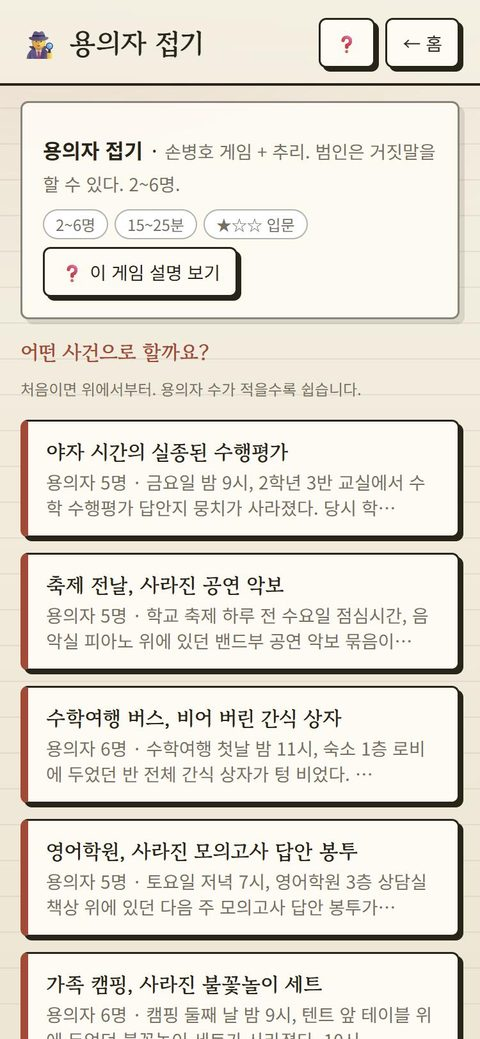
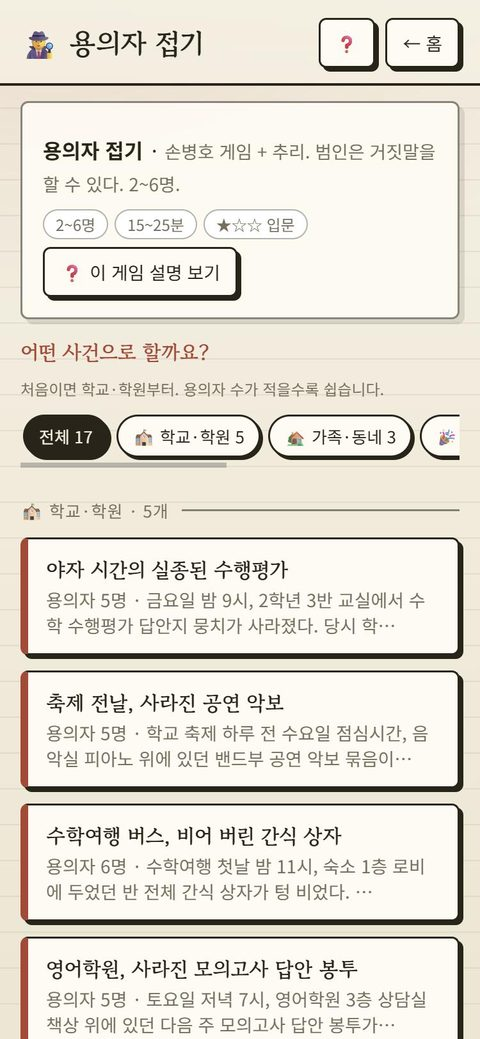
사건 선택 화면을 배경별로 묶고 필터 칩 추가
- 사건 데이터에 category 추가 (학교·학원 / 가족·동네 / 모임·행사 / 가게·시설 / 여행 / 온라인)
- app.js: CATEGORIES 순서대로 묶음 + 상단 필터 칩(선택은 do:caseFilter 에 기억), 자동 생성 사건은 별도 묶음
- check-cases: category·scene.spots 누락 경고
- 앱 소개 2단계 설명과 예시 화면(app-2) 갱신

Changed region(s): [[0.0312, 0.3696, 0.9688, 1.0]]

diff --git a/js/app.js b/js/app.js
@@ -2,6 +2,11 @@
 // 헤더의 ❓ 버튼은 현재 모드의 설명 시트(guide.js)를 띄운다. 게임 화면은 건드리지 않는다.
 (() => {
   const { h, render, modes, listCases, store } = DO;
+
+  // 사건 선택 화면의 배경별 묶음 순서. 사건 데이터의 category 문자열과 맞춘다. 쉬운 것(학교)이 먼저.
+  const CATEGORIES = [
+    ['학교·학원', '🏫'], ['가족·동네', '🏡'], ['모임·행사', '🎉'], ['가게·시설', '🏢'], ['여행', '✈'], ['온라인', '🎮'],
+  ];
   const root = document.getElementById('root');
   const homeBtn = document.getElementById('home');
   const helpBtn = document.getElementById('help');
@@ -84,18 +89,36 @@
     const cases = listCases();
     const gen = DO.generateCase; // daily.js 가 등록하면 존재
     const meta = DO.modeMeta ? DO.modeMeta(mode.id) : {};
-    render(root,
+    // 배경별 묶음. 사건의 category 가 목록에 없으면 "기타"로.
+    const groups = CATEGORIES.map(([name, emoji]) => ({ name, emoji, cases: cases.filter(c => c.category === name) }));
+    const known = new Set(CATEGORIES.map(([n]) => n));
+    const etc = cases.filter(c => !known.has(c.category));
+    if (etc.length) groups.push({ name: '기타', emoji: '📁', cases: etc });
+    const nonEmpty = groups.filter(g => g.cases.length);
+    let filter = store.get('caseFilter', null);
+    if (filter && !nonEmpty.some(g => g.name === filter)) filter = null;
+
+    const caseBtn = c => h('button', { class: 'mode', onClick: () => begin(mode, c) },
+      h('b', {}, c.title),
+      h('div', { class: 'muted' }, `용의자 ${c.suspects.length}명 · ${c.intro.slice(0, 48)}…`),
+    );
+    const draw = () => render(root,
       h('div', { class: 'card' },
         h('p', {}, h('b', {}, mode.name), ' · ', h('span', { class: 'muted' }, mode.desc)),
         badges(meta),
         h('button', { class: 'small', onClick: () => DO.openGuide && DO.openGuide(mode.id) }, '❓ 이 게임 설명 보기'),
       ),
       h('h3', {}, '어떤 사건으로 할까요?'),
-      h('p', { class: 'muted small-text' }, '처음이면 위에서부터. 용의자 수가 적을수록 쉽습니다.'),
-      cases.map(c => h('button', { class: 'mode', onClick: () => begin(mode, c) },
-        h('b', {}, c.title),
-        h('div', { class: 'muted' }, `용의자 ${c.suspects.length}명 · ${c.intro.slice(0, 48)}…`),
-      )),
+      h('p', { class: 'muted small-text' }, '처음이면 학교·학원부터. 용의자 수가 적을수록 쉽습니다.'),
+      h('div', { class: 'chips' },
+        h('button', { class: 'chip' + (filter ? '' : ' active'), onClick: () => { filter = null; store.set('caseFilter', null); draw(); } }, `전체 ${cases.length}`),
+        nonEmpty.map(g => h('button', { class: 'chip' + (filter === g.name ? ' active' : ''), onClick: () => { filter = g.name; store.set('caseFilter', g.name); draw(); } }, `${g.emoji} ${g.name} ${g.cases.length}`)),
+      ),
+      nonEmpty.filter(g => !filter || g.name === filter).map(g => [
+        h('div', { class: 'section-title' }, `${g.emoji} ${g.name} · ${g.cases.length}개`),
+        g.cases.map(caseBtn),
+      ]),
+      gen ? h('div', { class: 'section-title' }, '🤖 자동 생성') : null,
       gen ? h('button', { class: 'mode', onClick: () => begin(mode, gen(DO.todaySeed())) },
         h('b', {}, '📅 오늘의 사건'),
         h('div', { class: 'muted' }, '매일 바뀌는 자동 생성 사건. 오늘은 모두 같은 사건.'),
@@ -105,6 +128,7 @@
         h('div', { class: 'muted' }, '매번 새로 만드는 사건.'),
       ) : null,
     );
+    draw();
   }
 
   function begin(mode, c) {

diff --git a/js/guide.js b/js/guide.js
@@ -170,7 +170,7 @@
       h('h3', {}, '공통 흐름'),
       [
         ['모드 고르기', '홈에서 하고 싶은 방식을 고른다. 처음이면 용의자 접기.'],
-        ['사건 고르기', '수록된 사건이나 오늘의 사건을 고른다. 어느 모드든 같은 사건을 쓸 수 있다.'],
+        ['사건 고르기', '배경별(학교·학원, 가족·동네, 여행 …)로 묶인 사건이나 오늘의 사건을 고른다. 위쪽 칩을 누르면 그 배경만 보인다. 어느 모드든 같은 사건을 쓸 수 있다.'],
         ['이름 입력', '함께할 사람 이름을 넣는다. 지난번 이름은 기억되어 있다.'],
         ['폰 돌리기', '"OO님에게 폰을 넘기세요" 화면이 나오면 그 사람만 본다. 비밀 정보는 이때만 보인다.'],
         ['플레이 → 결과', '모드별 규칙대로 진행하고 결과 화면에서 전원 정체를 공개한다.'],

diff --git a/style.css b/style.css
@@ -151,6 +151,14 @@ textarea { resize: vertical; min-height: 60px; }
 }
 .badge.key { color: var(--accent); border-color: var(--accent); }
 
+/* 사건 선택: 배경 필터 칩 */
+.chips { display: flex; gap: 6px; overflow-x: auto; padding: 2px 2px 8px; margin: 6px 0 2px; }
+.chips .chip {
+  width: auto; flex: 0 0 auto; margin: 0; padding: 6px 11px; font-size: 13px; border-radius: 999px;
+  box-shadow: 2px 2px 0 var(--ink); white-space: nowrap;
+}
+.chips .chip.active { background: var(--ink); color: var(--bg2); }
+
 /* ---------- 모드 공용 부품 ---------- */
 .fingers { font-size: 22px; letter-spacing: 2px; }
 .player { display: flex; justify-content: space-between; align-items: center; padding: 10px 0; border-bottom: 1px solid var(--border); gap: 8px; }

diff --git a/tools/check-cases.js b/tools/check-cases.js
@@ -50,6 +50,8 @@ for (const C of DO.listCases()) {
     if (!C.clues.some(c => c.exposes === t)) errs.push(`거짓말 ${t} 를 폭로하는 단서가 없음`);
   }
   if (C.clues.length && C.clues[0].exposes) warns.push('첫 단서가 중립이 아님 (바로 들통날 수 있음)');
+  if (!C.category) warns.push('category 없음 (사건 선택 화면에서 "기타"로 묶임)');
+  if (!C.scene || !Array.isArray(C.scene.spots) || C.scene.spots.length < 4) warns.push('scene.spots 가 4개 미만 (방탈출이 공용 장소로 채움)');
 
   const code = C.conditions.slice(0, 3).map(c => C.suspects.filter(s => claims(s, c.tag)).length % 10).join('');
   const status = errs.length ? 'FAIL' : 'ok';

diff --git a/data/cases/case-014.js b/data/cases/case-014.js
@@ -2,6 +2,7 @@
 DO.registerCase({
   "id": "case-014",
   "title": "수영장 락커룸, 사라진 경기용 수경",
+  "category": "가게·시설",
   "intro": "일요일 오후 2시, 실내 수영장 락커룸 사물함에 넣어 둔 수영부 주장의 경기용 수경(선수용 고가품)이 사라졌다. 그 시간 수영장에 있던 사람은 여섯 명. 범인은 그중 한 명이다.",
   "culprit": "s5",
   "scene": {

diff --git a/data/cases/case-006.js b/data/cases/case-006.js
@@ -2,6 +2,7 @@
 DO.registerCase({
   "id": "case-006",
   "title": "설날 가족 모임, 사라진 윷놀이 상품 봉투",
+  "category": "가족·동네",
   "intro": "설날 오후 2시, 할머니 댁 거실 TV 장 위에 올려 둔 윷놀이 우승 상품 봉투(상품권 10만 원)가 사라졌다. 그 시간 집 안에 있던 사람은 여섯 명. 범인은 그중 한 명이다.",
   "culprit": "s4",
   "scene": {

diff --git a/data/cases/case-007.js b/data/cases/case-007.js
@@ -2,6 +2,7 @@
 DO.registerCase({
   "id": "case-007",
   "title": "동아리 MT, 사라진 장기자랑 상품 상자",
+  "category": "모임·행사",
   "intro": "동아리 MT 첫날 밤 10시, 펜션 거실 탁자 위에 두었던 장기자랑 상품 상자(한정판 굿즈 세트)가 사라졌다. 그 시간 펜션에 있던 사람은 여섯 명. 범인은 그중 한 명이다.",
   "culprit": "s3",
   "scene": {

diff --git a/data/cases/case-005.js b/data/cases/case-005.js
@@ -2,6 +2,7 @@
 DO.registerCase({
   "id": "case-005",
   "title": "가족 캠핑, 사라진 불꽃놀이 세트",
+  "category": "가족·동네",
   "intro": "캠핑 둘째 날 밤 9시, 텐트 앞 테이블 위에 두었던 불꽃놀이 세트가 사라졌다. 10시에 다 같이 터뜨리기로 했던 것이다. 캠핑에 온 사람은 여섯 명. 범인은 그중 한 명이다.",
   "culprit": "s4",
   "scene": {

diff --git a/data/cases/case-004.js b/data/cases/case-004.js
@@ -2,6 +2,7 @@
 DO.registerCase({
   "id": "case-004",
   "title": "영어학원, 사라진 모의고사 답안 봉투",
+  "category": "학교·학원",
   "intro": "토요일 저녁 7시, 영어학원 3층 상담실 책상 위에 있던 다음 주 모의고사 답안 봉투가 사라졌다. 그 시간 학원에 남아 있던 사람은 다섯 명. 범인은 그중 한 명이다.",
   "culprit": "s4",
   "scene": {

diff --git a/data/cases/case-002.js b/data/cases/case-002.js
@@ -2,6 +2,7 @@
 DO.registerCase({
   "id": "case-002",
   "title": "축제 전날, 사라진 공연 악보",
+  "category": "학교·학원",
   "intro": "학교 축제 하루 전 수요일 점심시간, 음악실 피아노 위에 있던 밴드부 공연 악보 묶음이 사라졌다. 점심시간에 본관 3층에 있던 사람은 다섯 명. 범인은 그중 한 명이다.",
   "culprit": "s4",
   "scene": {

diff --git a/data/cases/case-015.js b/data/cases/case-015.js
@@ -2,6 +2,7 @@
 DO.registerCase({
   "id": "case-015",
   "title": "공항 게이트, 사라진 면세점 쇼핑백",
+  "category": "여행",
   "intro": "금요일 저녁 7시, 공항 탑승 게이트 대기실 의자에 올려 둔 면세점 쇼핑백(향수 선물)이 사라졌다. 그 시간 게이트 근처에 있던 사람은 여섯 명. 범인은 그중 한 명이다.",
   "culprit": "s5",
   "scene": {

diff --git a/data/cases/case-013.js b/data/cases/case-013.js
@@ -2,6 +2,7 @@
 DO.registerCase({
   "id": "case-013",
   "title": "호텔 루프탑, 사라진 폴라로이드",
+  "category": "여행",
   "intro": "토요일 밤 9시, 호텔 루프탑 테라스 테이블에 올려 둔 신혼부부의 폴라로이드 카메라가 사라졌다. 그 시간 루프탑과 12층을 오간 사람은 여섯 명. 범인은 그중 한 명이다.",
   "culprit": "s4",
   "scene": {
